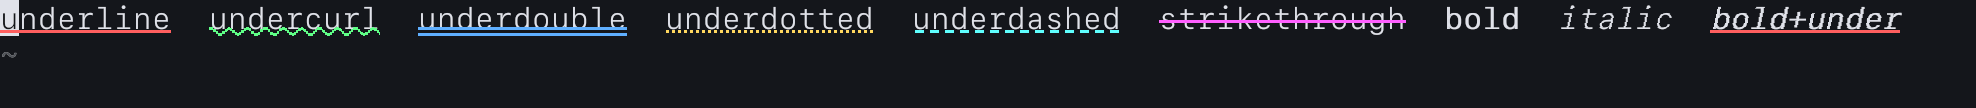
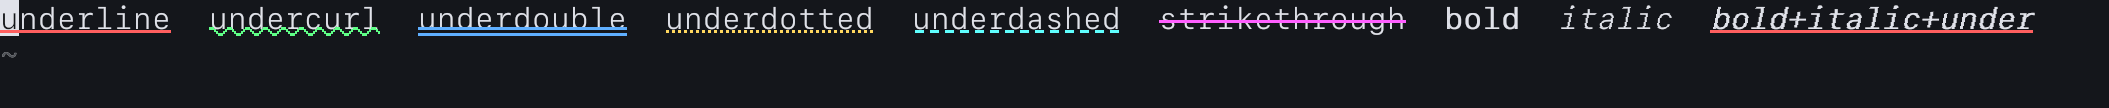
a(neovim-glsl) UR: close the review findings on text attributes
Cross-cell phase lock was the headline claim of the previous commit and
nothing tested it: every decoration test rendered into cell 0, where
`x0 - x0 % period` is indistinguishable from a per-cell restart. Add a
run fixture with pinned geometry whose cell width is deliberately not a
whole number of dash/dot periods, plus the same property through the
real `build_scene`, so a regression to per-cell phase fails.

`undercurl` only locked the sine's phase, not its sample grid: samples
restarted at each cell edge, so a cell ending in a truncated sliver
handed the next cell an unaligned start and the wave kinked once per
boundary. Lock the grid to absolute x the way `segmented` already does
and clip a straddling sample into two quads sharing one y.

`x_height` trusted `Font::metrics('x')`, which resolves a missing
character to `.notdef` -- drawn as a full-height box in many faces, so
the measurement would silently become cap height and lift strikethrough
off the body of the text. Ask the cmap first.

The evidence span labelled `bold+under` also set `italic`, so the
committed PNG showed something other than its own caption. Fix the
label and re-render; the wider line needs `--cols 111`.

37 unit tests green.

Changed region(s): [[0.0, 0.0556, 0.9879, 0.3333], [0.6174, 0.0556, 0.6483, 0.0833], [0.1544, 0.0556, 0.1852, 0.0833]]

diff --git a/evaluation/candidate-embed-opengl/src/gl.rs b/evaluation/candidate-embed-opengl/src/gl.rs
@@ -334,15 +334,22 @@ fn push_cell_decorations(
         }
     };
     // A sine sampled into short quads. Amplitude is one thickness either way, so
-    // the wave occupies `2 * amp + t` px vertically.
+    // the wave occupies `2 * amp + t` px vertically. The sample grid is locked to
+    // absolute x exactly as `segmented` is, not restarted at the cell edge: a
+    // sample straddling the boundary is clipped into two quads at one shared y,
+    // so the wave joins up instead of kinking once per cell.
     let curl = |verts: &mut Vec<f32>, y: f32, amp: f32| {
         let period = (6.0 * t).max(4.0);
         let step = (period / 8.0).max(1.0);
-        let mut x = x0;
+        let mut x = x0 - x0 % step;
         while x < x0 + cw {
-            let w = step.min(x0 + cw - x);
-            let phase = (x + w * 0.5) / period * std::f32::consts::TAU;
-            push_quad(verts, x, y + amp * phase.sin(), w, t, white, color);
+            let (lo, hi) = (x.max(x0), (x + step).min(x0 + cw));
+            if hi > lo {
+                // Phase from the unclipped sample centre, so both halves of a
+                // clipped sample land on the same y.
+                let phase = (x + step * 0.5) / period * std::f32::consts::TAU;
+                push_quad(verts, lo, y + amp * phase.sin(), hi - lo, t, white, color);
+            }
             x += step;
         }
     };
@@ -466,6 +473,81 @@ mod tests {
         scene_with(hl, (0, 5))
     }
 
+    /// A 2x1 grid whose *both* cells are `x` styled by `hl`, so decorations are
+    /// emitted at two different cell origins through the real `build_scene`
+    /// path. Cursor parked off-grid.
+    fn run_scene(hl: Hl) -> Vec<f32> {
+        let mut atlas = Atlas::new(20.0);
+        let mut grid = Grid::new(2, 1);
+        grid.cursor = (0, 5);
+        grid.hls.insert(1, hl);
+        grid.cells[0] = Cell { ch: 'x', hl: 1 };
+        grid.cells[1] = Cell { ch: 'x', hl: 1 };
+        let mut verts = Vec::new();
+        build_scene(&mut verts, &grid, &mut atlas, "");
+        verts
+    }
+
+    /// Two backgrounds plus two glyphs precede the decorations in `run_scene`.
+    /// Pinned by `plain_run_emits_only_backgrounds_and_glyphs`.
+    const RUN_UNDECORATED_QUADS: usize = 4;
+
+    fn run_scene_decorations(hl: Hl) -> Vec<Quad> {
+        quads(&run_scene(hl))[RUN_UNDECORATED_QUADS..].to_vec()
+    }
+
+    /// Cell geometry pinned for the cross-cell tests: `(cw, ch, ascent,
+    /// x_height)`. Font-derived metrics would leave these tests at the mercy of
+    /// whichever font the host has; here `cw` is deliberately *not* a whole
+    /// number of dash/dot periods, so an absolute phase lock and a per-cell
+    /// restart cannot produce the same output.
+    const RUN: (f32, f32, f32, f32) = (7.0, 14.0, 11.0, 7.0);
+    /// The same, at double thickness (`t == 2`), which makes the curl's sample
+    /// step 1.5px — again not a divisor of `cw`.
+    const TALL_RUN: (f32, f32, f32, f32) = (7.0, 28.0, 22.0, 14.0);
+
+    /// Decorations for a horizontal run of `cells` identically styled cells,
+    /// laid out left to right exactly as `build_scene` lays them out.
+    fn run_decorations(hl: Hl, geom: (f32, f32, f32, f32), cells: usize) -> Vec<Quad> {
+        let (cw, ch, ascent, x_height) = geom;
+        let mut verts = Vec::new();
+        for i in 0..cells {
+            push_cell_decorations(
+                &mut verts,
+                (0.0, 0.0, 0.0, 0.0),
+                [1.0, 1.0, 1.0, 1.0],
+                hl,
+                i as f32 * cw,
+                0.0,
+                cw,
+                ch,
+                ascent,
+                x_height,
+            );
+        }
+        quads(&verts)
+    }
+
+    /// The cell a quad belongs to, taken from its centre so a quad sitting flush
+    /// against a boundary is attributed unambiguously.
+    fn owning_cell(q: &Quad, cw: f32) -> f32 {
+        ((q.x + q.w * 0.5) / cw).floor()
+    }
+
+    /// Merge quads that abut exactly, so a mark clipped at a cell boundary reads
+    /// back as the single mark it is drawn to be. Input must be in ascending x.
+    fn merge_marks(qs: &[Quad]) -> Vec<(f32, f32)> {
+        let mut spans: Vec<(f32, f32)> = Vec::new();
+        for q in qs {
+            if matches!(spans.last(), Some(last) if (last.1 - q.x).abs() < 1e-4) {
+                spans.last_mut().unwrap().1 = q.x + q.w;
+            } else {
+                spans.push((q.x, q.x + q.w));
+            }
+        }
+        spans
+    }
+
     fn scene_floats(hl: Hl) -> usize {
         scene(hl).len()
     }
@@ -565,14 +647,7 @@ mod tests {
     #[test]
     fn every_decoration_stays_inside_its_cell() {
         let (cw, ch, _, _) = metrics();
-        for (name, hl) in [
-            ("underline", with(|h| h.underline = true)),
-            ("undercurl", with(|h| h.undercurl = true)),
-            ("underdouble", with(|h| h.underdouble = true)),
-            ("underdotted", with(|h| h.underdotted = true)),
-            ("underdashed", with(|h| h.underdashed = true)),
-            ("strikethrough", with(|h| h.strikethrough = true)),
-        ] {
+        for (name, hl) in decoration_styles() {
             for q in decorations(hl) {
                 assert!(q.y >= 0.0 && q.y + q.h <= ch, "{name} escapes the cell vertically: {q:?}");
                 assert!(q.x >= 0.0 && q.x + q.w <= cw, "{name} escapes the cell horizontally: {q:?}");
@@ -668,6 +743,144 @@ mod tests {
         // Synthetic face reshapes the glyph but must not add underline/strike quads.
         assert_eq!(scene_floats(with(|h| h.bold = true)), 3 * QUAD_FLOATS);
         assert_eq!(scene_floats(with(|h| h.italic = true)), 3 * QUAD_FLOATS);
+    }
+
+    /// Every style that emits decoration quads, by name.
+    fn decoration_styles() -> Vec<(&'static str, Hl)> {
+        vec![
+            ("underline", with(|h| h.underline = true)),
+            ("undercurl", with(|h| h.undercurl = true)),
+            ("underdouble", with(|h| h.underdouble = true)),
+            ("underdotted", with(|h| h.underdotted = true)),
+            ("underdashed", with(|h| h.underdashed = true)),
+            ("strikethrough", with(|h| h.strikethrough = true)),
+        ]
+    }
+
+    #[test]
+    fn plain_run_emits_only_backgrounds_and_glyphs() {
+        // Pins `RUN_UNDECORATED_QUADS`: if the prologue ever grows, the run
+        // tests would silently start reading a background as a decoration.
+        assert_eq!(run_scene(plain()).len(), RUN_UNDECORATED_QUADS * QUAD_FLOATS);
+    }
+
+    #[test]
+    fn segmented_underlines_are_phase_locked_across_cell_boundaries() {
+        // The headline claim: a run of cells sharing one highlight reads as a
+        // single pattern. Restarting the phase at each cell would show up here
+        // as a short or doubled mark exactly at the boundary.
+        for (name, hl) in [
+            ("underdotted", with(|h| h.underdotted = true)),
+            ("underdashed", with(|h| h.underdashed = true)),
+        ] {
+            let marks = merge_marks(&run_decorations(hl, RUN, 2));
+            assert!(marks.len() >= 3, "{name}: expected a repeating pattern, got {marks:?}");
+            let width = |m: &(f32, f32)| m.1 - m.0;
+            let (first, last) = (width(&marks[0]), width(marks.last().unwrap()));
+            // Only the final mark may be short, clipped by the end of the run.
+            for m in &marks[..marks.len() - 1] {
+                assert!(
+                    (width(m) - first).abs() < 1e-4,
+                    "{name}: uneven mark {m:?} in {marks:?}"
+                );
+            }
+            assert!(last <= first + 1e-4, "{name}: trailing mark grew: {marks:?}");
+            let pitch = marks[1].0 - marks[0].0;
+            for w in marks.windows(2) {
+                assert!(
+                    ((w[1].0 - w[0].0) - pitch).abs() < 1e-4,
+                    "{name}: uneven spacing in {marks:?}"
+                );
+            }
+            // And the pattern really does cross the boundary rather than
+            // coincidentally lining up with it.
+            let (cw, ..) = RUN;
+            assert!(
+                marks.iter().any(|m| m.0 < cw && m.1 > cw)
+                    || marks.iter().all(|m| (m.0 % pitch - marks[0].0 % pitch).abs() < 1e-4),
+                "{name}: pattern does not continue past x={cw}: {marks:?}"
+            );
+        }
+    }
+
+    #[test]
+    fn undercurl_samples_are_phase_locked_across_cell_boundaries() {
+        // At `TALL_RUN` the sample step is 1.5px, so one sample straddles the
+        // 7px cell edge. Both halves belong to the same sample and must sit at
+        // the same y, or the wave kinks once per cell.
+        let (cw, ..) = TALL_RUN;
+        let curl = run_decorations(with(|h| h.undercurl = true), TALL_RUN, 2);
+        let ends_at_edge = curl
+            .iter()
+            .find(|q| (q.x + q.w - cw).abs() < 1e-4)
+            .expect("a sample clipped by the cell's right edge");
+        let starts_at_edge = curl
+            .iter()
+            .find(|q| (q.x - cw).abs() < 1e-4)
+            .expect("a sample resuming at the next cell's left edge");
+        assert!(
+            (ends_at_edge.y - starts_at_edge.y).abs() < 1e-4,
+            "curl jumps at the cell boundary: {} -> {}",
+            ends_at_edge.y,
+            starts_at_edge.y
+        );
+        // The two halves reconstitute exactly one 1.5px sample: neither is
+        // dropped, and the next cell does not start a fresh full-width one.
+        assert!(
+            (ends_at_edge.w + starts_at_edge.w - 1.5).abs() < 1e-4,
+            "split sample halves are {} + {}, expected one 1.5px step",
+            ends_at_edge.w,
+            starts_at_edge.w
+        );
+        // Still a wave, not a flattened rule.
+        let top = curl.iter().map(|q| q.y).fold(f32::MAX, f32::min);
+        let bottom = curl.iter().map(|q| q.y).fold(f32::MIN, f32::max);
+        assert!(bottom - top > 0.0, "curl steps must vary in y");
+    }
+
+    #[test]
+    fn every_decoration_stays_inside_its_own_cell_anywhere_in_a_run() {
+        // `every_decoration_stays_inside_its_cell` only ever looks at x0 == 0,
+        // where clipping and a per-cell restart are indistinguishable. Here the
+        // decorations start at three different cell origins.
+        for geom in [RUN, TALL_RUN] {
+            let (cw, ch, ..) = geom;
+            for (name, hl) in decoration_styles() {
+                for q in run_decorations(hl, geom, 3) {
+                    let cell = owning_cell(&q, cw);
+                    assert!(
+                        q.x >= cell * cw - 1e-4 && q.x + q.w <= (cell + 1.0) * cw + 1e-4,
+                        "{name} escapes cell {cell} horizontally: {q:?}"
+                    );
+                    assert!(
+                        q.y >= -1e-4 && q.y + q.h <= ch + 1e-4,
+                        "{name} escapes the cell vertically: {q:?}"
+                    );
+                }
+            }
+        }
+    }
+
+    #[test]
+    fn build_scene_decorates_each_cell_of_a_run_at_its_own_origin() {
+        // The same property through the real scene builder, so the per-cell
+        // origin `build_scene` passes down is covered too.
+        let (cw, ch, ..) = metrics();
+        for (name, hl) in decoration_styles() {
+            let d = run_scene_decorations(hl);
+            assert!(
+                d.iter().any(|q| q.x >= cw - 1e-4),
+                "{name}: the second cell of the run got no decoration"
+            );
+            for q in &d {
+                let cell = owning_cell(q, cw);
+                assert!(
+                    q.x >= cell * cw - 1e-4 && q.x + q.w <= (cell + 1.0) * cw + 1e-4,
+                    "{name} escapes cell {cell} horizontally: {q:?}"
+                );
+                assert!(q.y >= -1e-4 && q.y + q.h <= ch + 1e-4, "{name} escapes vertically: {q:?}");
+            }
+        }
     }
 
     #[test]

diff --git a/evaluation/candidate-embed-opengl/src/text.rs b/evaluation/candidate-embed-opengl/src/text.rs
@@ -71,13 +71,7 @@ impl Atlas {
         let cell_w = primary.metrics('M', px).advance_width.max(1.0).round();
         let lm = primary.horizontal_line_metrics(px).expect("line metrics");
         let cell_h = (lm.ascent - lm.descent + lm.line_gap).ceil().max(1.0);
-        // fontdue exposes no OS/2 x-height, so measure it: the rasterised height
-        // of `x` is exactly the distance from baseline to x-height. Fall back to
-        // a typical ratio if the primary font has no `x`.
-        let x_height = match primary.metrics('x', px).height as f32 {
-            h if h > 0.0 => h,
-            _ => lm.ascent * 0.52,
-        };
+        let x_height = measure_x_height(primary, px, lm.ascent, 'x');
 
         let mut pixels = vec![0u8; ATLAS * ATLAS];
         // Opaque texel for background quads.
@@ -180,6 +174,25 @@ impl Atlas {
     }
 }
 
+/// Distance from the baseline to the top of `probe` (normally `x`), in pixels.
+///
+/// fontdue exposes no OS/2 x-height, so measure it: the rasterised height of a
+/// lowercase `x` is exactly that distance. `Font::metrics` resolves a character
+/// the font does not cover to glyph 0 (`.notdef`), which many faces draw as a
+/// full-height box — trusting that would report roughly cap height and push
+/// strikethrough well above the body of the text. So ask the cmap first and fall
+/// back to a typical ratio of the ascent when the probe is genuinely absent.
+fn measure_x_height(font: &Font, px: f32, ascent: f32, probe: char) -> f32 {
+    let fallback = ascent * 0.52;
+    if font.lookup_glyph_index(probe) == 0 {
+        return fallback;
+    }
+    match font.metrics(probe, px).height as f32 {
+        h if h > 0.0 => h,
+        _ => fallback,
+    }
+}
+
 /// Faux emboldening slant, in ink-columns per row of height. Chosen to read as
 /// oblique without pushing ink outside a monospace cell for typical faces.
 const ITALIC_SLANT: f32 = 0.22;
@@ -277,6 +290,30 @@ mod tests {
 
     fn total_ink(px: &[u8]) -> u32 {
         px.iter().map(|&v| v as u32).sum()
+    }
+
+    #[test]
+    fn x_height_falls_back_when_the_probe_is_not_in_the_font() {
+        let atlas = Atlas::new(20.0);
+        let font = &atlas.fonts[0];
+        // A private-use codepoint the font does not cover. `Font::metrics`
+        // resolves it to `.notdef`, which many faces draw as a full-height box —
+        // measuring that would put strikethrough near cap height.
+        let missing = ('\u{E000}'..='\u{E0FF}')
+            .find(|&c| font.lookup_glyph_index(c) == 0)
+            .expect("some private-use codepoint outside the font");
+        assert_eq!(measure_x_height(font, 20.0, 100.0, missing), 100.0f32 * 0.52);
+
+        // Whichever branch the host font takes, the atlas uses this number, and
+        // it stays inside the ascent so strikethrough lands on the body of the
+        // text rather than above it.
+        let measured = measure_x_height(font, 20.0, atlas.ascent, 'x');
+        assert_eq!(measured, atlas.x_height, "the atlas must use the measured probe");
+        assert!(
+            measured > 0.0 && measured < atlas.ascent,
+            "implausible x-height {measured} against ascent {}",
+            atlas.ascent
+        );
     }
 
     #[test]

diff --git a/README.md b/README.md
@@ -37,7 +37,7 @@ highlight が続く間は cell 境界で模様が途切れない。
 
 ```bash
 ./target/debug/nvimgl --snapshot ../evidence/text-attributes.png \
-  --cols 104 --rows 3 --lua "$(cat ../evidence/text-attributes.lua)" -- --clean
+  --cols 111 --rows 3 --lua "$(cat ../evidence/text-attributes.lua)" -- --clean
 ```
 
 ## 動かないもの
